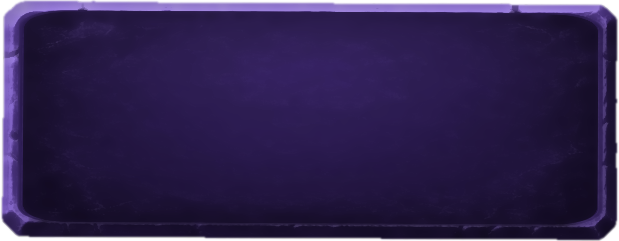
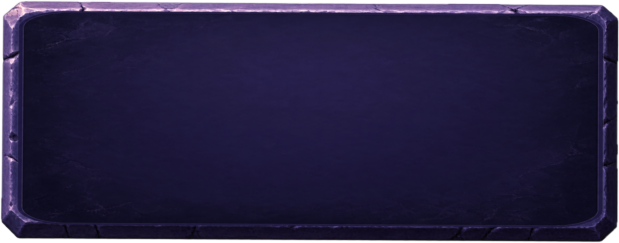
fix(home): terrace slabs use Pete's original art, inset in the opening with a gap between
Claude-Session: https://claude.ai/code/session_012mL7SLkKnojXwkd9W51Fsz

Changed region(s): [[0.0, 0.0, 1.0, 1.0], [0.6139, 0.9876, 0.9822, 1.0], [0.7674, 0.9295, 0.7981, 0.9585]]

diff --git a/app/components/HomeTerraceScene.tsx b/app/components/HomeTerraceScene.tsx
@@ -260,8 +260,9 @@ export function HomeTerraceScene(props: Props) {
         <Slab
           source={ART.slabHunt}
           label={huntLabel}
+          left={TERRACE_SLABS.hunt.x * niche.width}
           top={TERRACE_SLABS.hunt.y * niche.height}
-          width={niche.width}
+          width={TERRACE_SLABS.hunt.w * niche.width}
           height={TERRACE_SLABS.hunt.h * niche.height}
           fontSize={34 * k}
           k={k}
@@ -274,8 +275,9 @@ export function HomeTerraceScene(props: Props) {
         <Slab
           source={ART.slabBook}
           label="POLYBOOK"
+          left={TERRACE_SLABS.book.x * niche.width}
           top={TERRACE_SLABS.book.y * niche.height}
-          width={niche.width}
+          width={TERRACE_SLABS.book.w * niche.width}
           height={TERRACE_SLABS.book.h * niche.height}
           fontSize={28 * k}
           k={k}
@@ -308,6 +310,7 @@ function selectionRect(id: TerraceElementId, layout: TerraceLayout) {
 type SlabProps = {
   source: number;
   label: string;
+  left: number;
   top: number;
   width: number;
   height: number;
@@ -326,7 +329,7 @@ function Slab(p: SlabProps) {
       accessibilityRole="button"
       accessibilityLabel={p.accessibilityLabel}
       onPress={p.onPress}
-      style={[styles.slab, { top: p.top, width: p.width, height: p.height }, p.debug]}
+      style={[styles.slab, { left: p.left, top: p.top, width: p.width, height: p.height }, p.debug]}
     >
       {/* Explicit size, NOT absoluteFill: on iOS an absoluteFill Image drew at its own 619 x 241 pt
           size (about 2x the button) and the niche clipped it to the top-left quarter. */}
@@ -390,7 +393,7 @@ const styles = StyleSheet.create({
   img: { position: 'absolute', pointerEvents: 'none' },
   dailyLabel: { position: 'absolute', textAlign: 'center', fontFamily: FONTS.wordDisplay, textShadowOffset: { width: 0, height: 2 } },
   gear: { alignItems: 'center', justifyContent: 'center' },
-  slab: { position: 'absolute', left: 0, alignItems: 'center', justifyContent: 'center' },
+  slab: { position: 'absolute', alignItems: 'center', justifyContent: 'center' },
   slabLabel: { fontFamily: FONTS.wordDisplay, textAlign: 'center', textShadowOffset: { width: 0, height: 2 } },
   selection: { borderWidth: 2, borderColor: '#B98ADE', borderStyle: 'dashed' },
   hitDebug: { borderWidth: 1, borderColor: 'rgba(245,200,66,0.9)', backgroundColor: 'rgba(245,200,66,0.12)' },

diff --git a/app/ui/homeTerraceScene.ts b/app/ui/homeTerraceScene.ts
@@ -126,10 +126,13 @@ export const TERRACE_NICHE = {
   w: 271.5 / 349.8,
   h: 168.1 / 241.1,
 } as const;
-// Slabs inside the niche, as fractions of the niche height (width is the full niche width).
+// Slabs inside the niche, INSET with a dark margin around them and a gap between (as in Pete's
+// original composite). x / w are fractions of the niche width, y / h of the niche height.
+// Pixel basis: niche 617 x 382; Hunt art 619 x 243, Polybook art 619 x 128 (aspect kept).
+const SLAB_W = 555 / 617;
 export const TERRACE_SLABS = {
-  hunt: { y: 0, h: 106.0 / 168.1 },
-  book: { y: 112.6 / 168.1, h: 55.4 / 168.1 },
+  hunt: { x: (617 - 555) / 2 / 617, w: SLAB_W, y: 18 / 382, h: (555 * 243) / 619 / 382 },
+  book: { x: (617 - 555) / 2 / 617, w: SLAB_W, y: 248 / 382, h: (555 * 128) / 619 / 382 },
 } as const;
 
 // Castle windows and door glow, as fractions of the castle rect (from the mock's overlays).

diff --git a/tools/art/home_terrace/cut_slabs.py b/tools/art/home_terrace/cut_slabs.py
@@ -1,0 +1,9 @@
+# Cuts Pete's ORIGINAL slab art (his composite, 2026-10-20) into the two shipped slab images.
+# No regrade: the pixels are exactly his. Usage: python3 cut_slabs.py <composite.png> <out_dir>
+import sys
+from PIL import Image
+src = Image.open(sys.argv[1]).convert('RGBA')
+out = sys.argv[2]
+# Row bands found from the alpha channel: Hunt rows 152-394, Polybook rows 472-599, cols 145-763.
+src.crop((145, 152, 764, 395)).save(f'{out}/slab_hunt.png')
+src.crop((145, 472, 764, 600)).save(f'{out}/slab_book.png')
